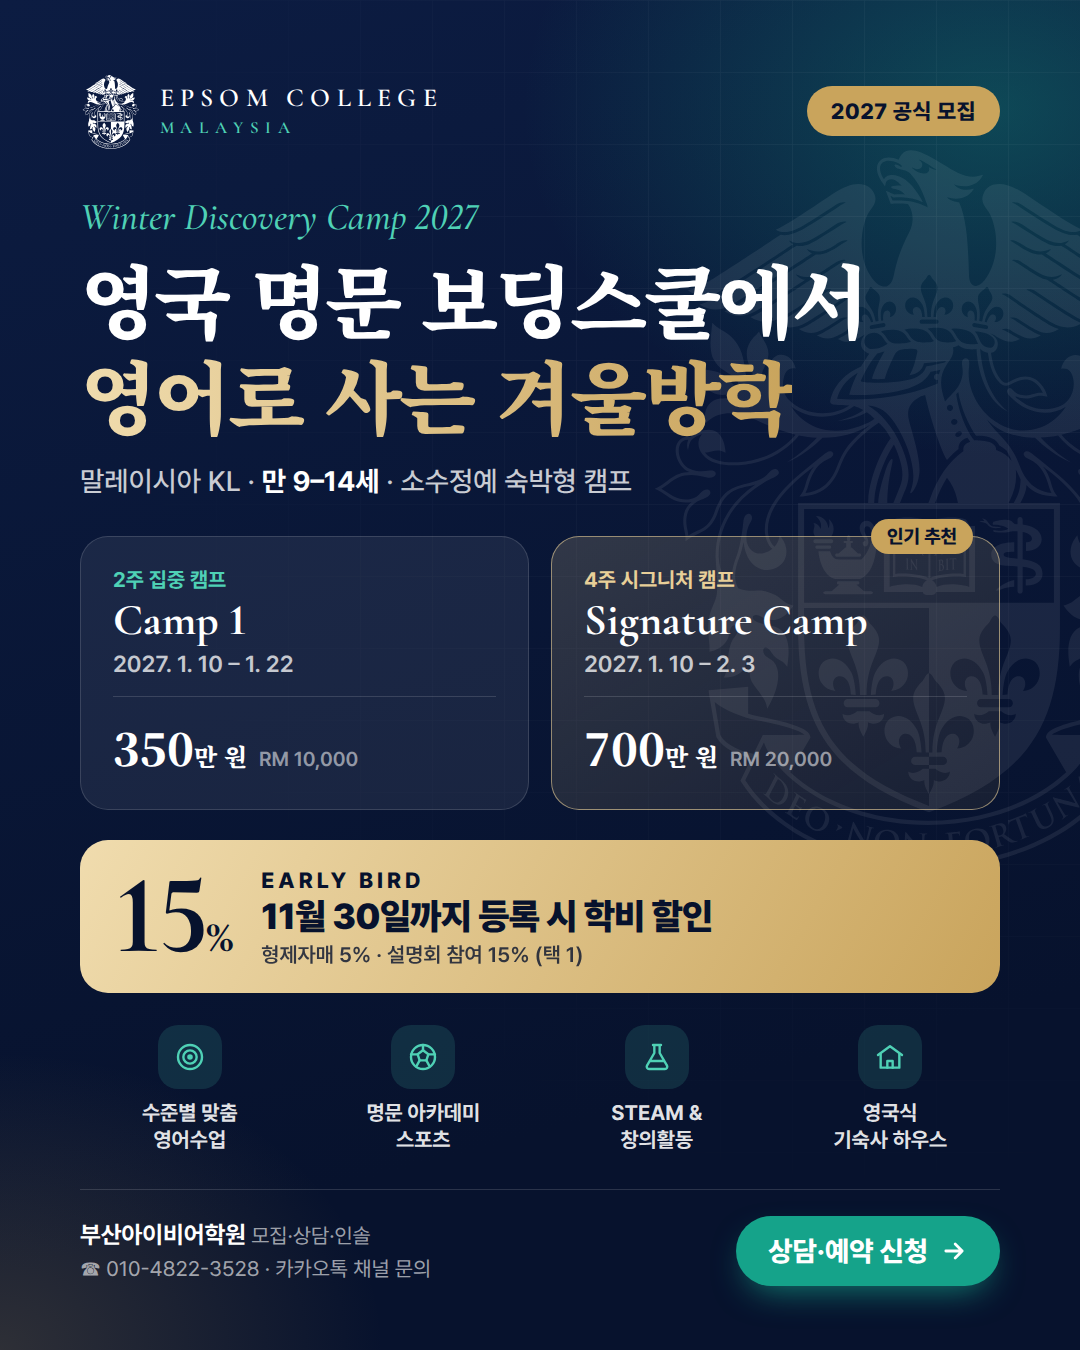
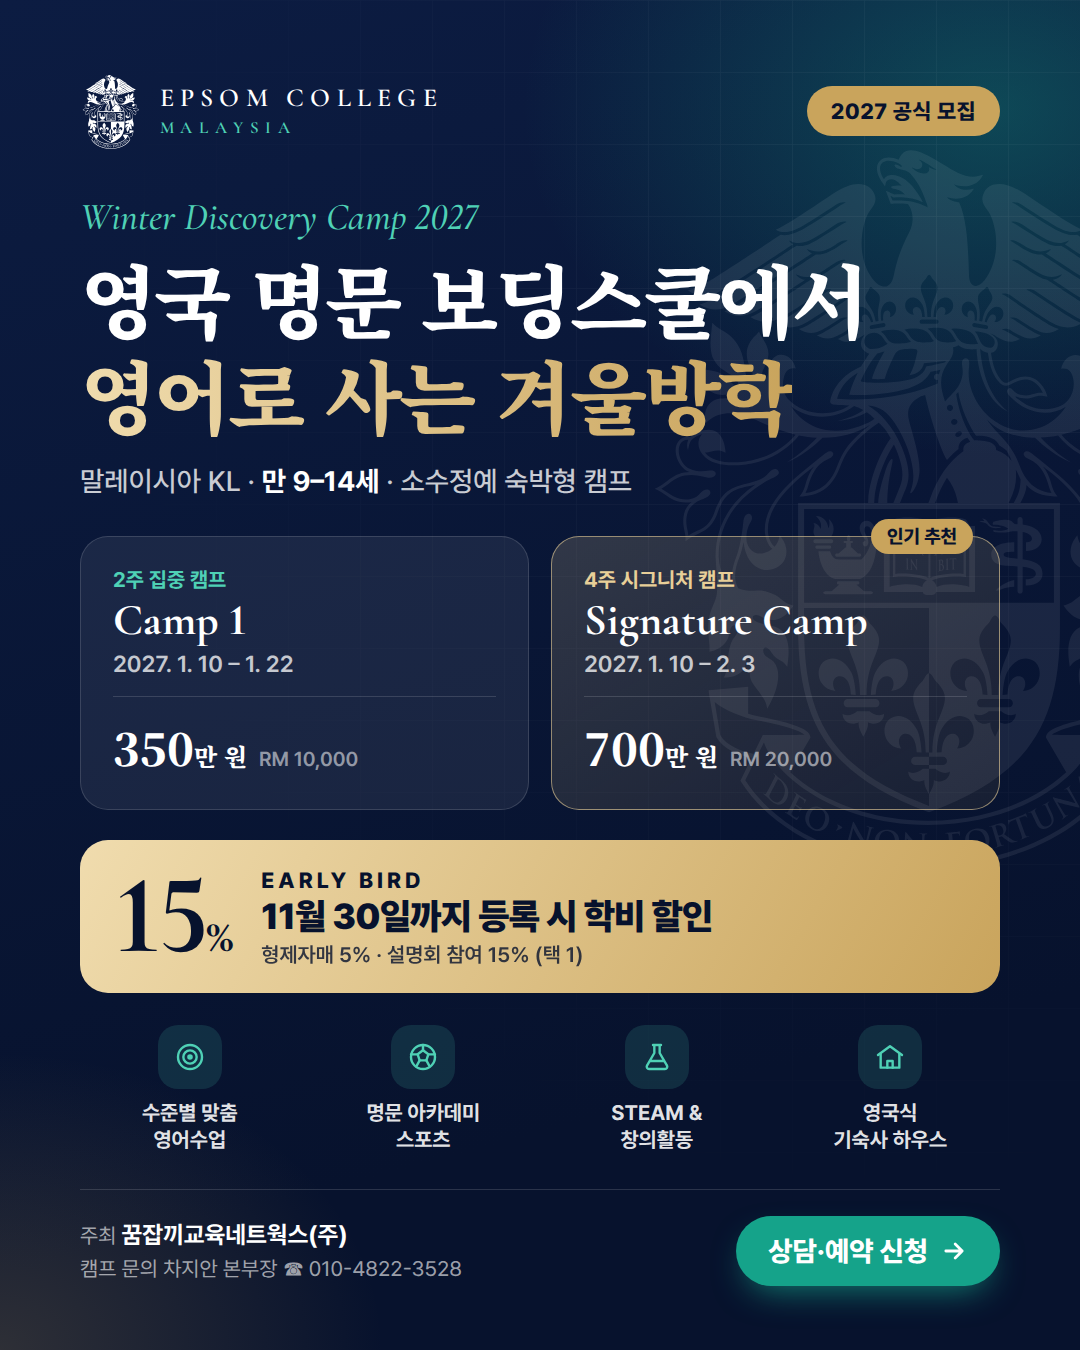
Change organizer to 꿈잡끼교육네트웍스(주) and update contacts
- Organizer/footer/copyright now 꿈잡끼교육네트웍스(주), linking knnedu.kr
- Camp contact: 차지안 본부장 010-4822-3528 (call/SMS)
- Remove previous academy's Kakao channel and office number
- Regenerate card news PNG with new organizer

Claude-Session: https://claude.ai/code/session_017LYc1gCbSr2zgmtpYjnyyX

Changed region(s): [[0.0611, 0.9022, 0.4278, 0.9644]]

diff --git a/index.html b/index.html
@@ -3,8 +3,8 @@
 <head>
 <meta charset="UTF-8">
 <meta name="viewport" content="width=device-width, initial-scale=1.0">
-<title>2027 엡솜 컬리지 말레이시아 겨울 디스커버리 캠프 | 부산아이비어학원</title>
-<meta name="description" content="영국 명문 보딩스쿨 Epsom College Malaysia 2027 겨울 디스커버리 캠프. 만 9–14세, 2주 캠프(1/10–1/22) · 4주 시그니처 캠프(1/10–2/3). 11월 30일까지 얼리버드 15% 할인. 부산아이비어학원 상담·예약.">
+<title>2027 엡솜 컬리지 말레이시아 겨울 디스커버리 캠프 | 꿈잡끼교육네트웍스(주)</title>
+<meta name="description" content="영국 명문 보딩스쿨 Epsom College Malaysia 2027 겨울 디스커버리 캠프. 만 9–14세, 2주 캠프(1/10–1/22) · 4주 시그니처 캠프(1/10–2/3). 11월 30일까지 얼리버드 15% 할인. 주최 꿈잡끼교육네트웍스(주) · 상담·예약.">
 <meta property="og:type" content="website">
 <meta property="og:title" content="2027 Epsom College Malaysia 겨울 디스커버리 캠프">
 <meta property="og:description" content="영국 정통 보딩스쿨에서 보내는 2주·4주 영어 몰입 캠프 · 얼리버드 15% (~11/30)">
@@ -302,7 +302,6 @@
   .thanks .sum{text-align:left;background:var(--bg);border:1px solid var(--line);border-radius:14px;padding:16px 18px;margin-top:20px;font-size:14px;white-space:pre-line;color:var(--ink)}
   .thanks .acts{display:grid;grid-template-columns:1fr 1fr;gap:10px;margin-top:16px}
   .thanks .acts .btn{height:50px;font-size:15px}
-  .btn-kakao{background:#fee500;color:#3a1d1d}
 
   footer{background:var(--navy-deep);color:rgba(255,255,255,.6);padding:64px 0;font-size:14px}
   footer .in{display:flex;justify-content:space-between;gap:40px;flex-wrap:wrap;align-items:flex-start}
@@ -375,6 +374,7 @@
     <symbol id="i-cal" viewBox="0 0 24 24" fill="none" stroke="currentColor" stroke-width="1.8" stroke-linecap="round" stroke-linejoin="round"><rect x="3" y="4.5" width="18" height="16.5" rx="2.5"/><path d="M3 9.5h18M8 3v3M16 3v3"/></symbol>
     <symbol id="i-phone" viewBox="0 0 24 24" fill="none" stroke="currentColor" stroke-width="1.9" stroke-linecap="round" stroke-linejoin="round"><path d="M22 16.9v3a2 2 0 0 1-2.2 2 19.8 19.8 0 0 1-8.6-3.1 19.5 19.5 0 0 1-6-6A19.8 19.8 0 0 1 2.1 4.2 2 2 0 0 1 4.1 2h3a2 2 0 0 1 2 1.7c.1 1 .4 1.9.7 2.8a2 2 0 0 1-.5 2.1L8 9.9a16 16 0 0 0 6 6l1.3-1.3a2 2 0 0 1 2.1-.4c.9.3 1.8.6 2.8.7a2 2 0 0 1 1.7 2z"/></symbol>
     <symbol id="i-chat" viewBox="0 0 24 24" fill="currentColor"><path d="M12 3C6.5 3 2 6.5 2 10.8c0 2.8 1.9 5.2 4.7 6.6l-1 3.6c-.1.3.3.6.6.4l4.2-2.8c.5.1 1 .1 1.5.1 5.5 0 10-3.5 10-7.9S17.5 3 12 3z"/></symbol>
+    <symbol id="i-globe" viewBox="0 0 24 24" fill="none" stroke="currentColor" stroke-width="1.8" stroke-linecap="round" stroke-linejoin="round"><circle cx="12" cy="12" r="9"/><path d="M3 12h18M12 3a14 14 0 0 1 0 18M12 3a14 14 0 0 0 0 18"/></symbol>
     <symbol id="i-arrow" viewBox="0 0 24 24" fill="none" stroke="currentColor" stroke-width="2" stroke-linecap="round" stroke-linejoin="round"><path d="M5 12h14M13 6l6 6-6 6"/></symbol>
     <symbol id="i-check" viewBox="0 0 24 24" fill="none" stroke="currentColor" stroke-width="2.6" stroke-linecap="round" stroke-linejoin="round"><path d="M5 12l5 5L20 7"/></symbol>
     <symbol id="i-wallet" viewBox="0 0 24 24" fill="none" stroke="currentColor" stroke-width="1.8" stroke-linecap="round" stroke-linejoin="round"><path d="M20 7V5a1 1 0 0 0-1-1H5a2 2 0 0 0 0 4h15a1 1 0 0 1 1 1v4h-4a2 2 0 0 0 0 4h4v2a1 1 0 0 1-1 1H5a2 2 0 0 1-2-2V6"/><path d="M21 13v4"/></symbol>
@@ -557,7 +557,7 @@
           <div class="row sub"><span>현지 용돈</span><b>20만 원</b></div>
           <div class="row total"><span>총 예상 비용</span><b>약 484만 원</b></div>
         </div>
-        <div class="pay"><svg><use href="#i-wallet"/></svg><div><b>학비 직접 납부 또는 당사 대행 모두 가능</b><br>학교에 직접 입금하셔도, 부산아이비어학원을 통해 납부하셔도 됩니다.</div></div>
+        <div class="pay"><svg><use href="#i-wallet"/></svg><div><b>학비 직접 납부 또는 당사 대행 모두 가능</b><br>학교에 직접 입금하셔도, 꿈잡끼교육네트웍스(주)를 통해 납부하셔도 됩니다.</div></div>
       </div>
 
       <div class="panel calc rv d1" id="calc">
@@ -626,10 +626,10 @@
       <div class="eyebrow">How to Join</div>
       <h2 class="title">상담부터 출국까지, 한 번에</h2>
       <div class="rule"></div>
-      <p class="lead">부산아이비어학원이 신청부터 출국 준비, 인솔까지 함께합니다.</p>
+      <p class="lead">주최사 꿈잡끼교육네트웍스(주)가 신청부터 출국 준비, 인솔까지 함께합니다.</p>
     </div>
     <div class="steps">
-      <div class="step rv"><div class="c">01</div><h4>상담 신청</h4><p>아래 신청서 또는<br>전화·카카오톡</p></div>
+      <div class="step rv"><div class="c">01</div><h4>상담 신청</h4><p>아래 신청서 또는<br>전화·문자</p></div>
       <div class="step rv d1"><div class="c">02</div><h4>1:1 상담·설명회</h4><p>캠프 선택과<br>할인 적용 안내</p></div>
       <div class="step rv d2"><div class="c">03</div><h4>등록·학비 납부</h4><p>학교 직납 또는<br>당사 대행</p></div>
       <div class="step rv d3"><div class="c">04</div><h4>출국 준비</h4><p>항공·보험·<br>준비물 안내</p></div>
@@ -656,7 +656,7 @@
       <details><summary><span>할인은 여러 개를 함께 받을 수 있나요?</span><i></i></summary>
         <div class="a">얼리버드(15%), 형제자매(5%), 설명회 특전(15%) 중 한 가지만 선택 적용되며 중복 적용은 불가합니다.</div></details>
       <details><summary><span>학비는 어떻게 납부하나요?</span><i></i></summary>
-        <div class="a">학교에 직접 입금하시거나, 부산아이비어학원을 통해 대행 납부하실 수 있습니다. 편하신 방법을 선택하시면 됩니다.</div></details>
+        <div class="a">학교에 직접 입금하시거나, 꿈잡끼교육네트웍스(주)를 통해 대행 납부하실 수 있습니다. 편하신 방법을 선택하시면 됩니다.</div></details>
       <details><summary><span>아이 혼자 출국해도 괜찮을까요?</span><i></i></summary>
         <div class="a">인솔자가 동행하여 출국부터 현지 도착까지 함께합니다. 출국 전 준비물과 현지 생활 안내도 별도로 드립니다.</div></details>
     </div>
@@ -671,11 +671,11 @@
       <h2 class="title">지금 상담·예약을<br>신청하세요</h2>
       <p class="lead">신청서를 남겨주시면 담당자가 순차적으로 연락드려 일정·비용·할인 적용을 자세히 안내해 드립니다.</p>
       <div class="contact">
-        <a href="tel:01048223528"><span class="ci"><svg><use href="#i-phone"/></svg></span><div><small>전화 상담</small><b>010-4822-3528</b></div></a>
-        <a href="http://pf.kakao.com/_jeZxlG" target="_blank" rel="noopener"><span class="ci k"><svg><use href="#i-chat"/></svg></span><div><small>카카오톡 채널</small><b>부산아이비어학원 문의</b></div></a>
-        <a href="tel:0519360583"><span class="ci"><svg><use href="#i-phone"/></svg></span><div><small>운영 사무실</small><b>051-936-0583</b></div></a>
+        <a href="tel:01048223528"><span class="ci"><svg><use href="#i-phone"/></svg></span><div><small>캠프 문의 담당 · 차지안 본부장</small><b>010-4822-3528</b></div></a>
+        <a href="sms:01048223528"><span class="ci"><svg><use href="#i-chat"/></svg></span><div><small>문자 상담</small><b>010-4822-3528</b></div></a>
+        <a href="https://knnedu.kr:4447/" target="_blank" rel="noopener"><span class="ci"><svg><use href="#i-globe"/></svg></span><div><small>주최사 홈페이지</small><b>꿈잡끼교육네트웍스(주)</b></div></a>
       </div>
-      <p class="agent">모집 · 상담 · 인솔 : 부산아이비어학원 (Busan Ivy Academy)<br>학비는 학교 직납 또는 당사 대행 모두 가능합니다.</p>
+      <p class="agent">주최 : 꿈잡끼교육네트웍스(주)<br>캠프 문의 담당 : 차지안 본부장 (010-4822-3528)<br>학비는 학교 직납 또는 당사 대행 모두 가능합니다.</p>
     </div>
 
     <div class="form rv d1">
@@ -717,7 +717,7 @@
         <div class="sum" id="sum" hidden></div>
         <div class="acts" id="acts" hidden>
           <a class="btn btn-navy" id="smsBtn" href="#"><svg><use href="#i-phone"/></svg>문자로 전송</a>
-          <a class="btn btn-kakao" id="kakaoBtn" href="http://pf.kakao.com/_jeZxlG" target="_blank" rel="noopener"><svg><use href="#i-chat"/></svg>카카오톡으로 전송</a>
+          <a class="btn btn-teal" id="callBtn" href="tel:01048223528"><svg><use href="#i-phone"/></svg>전화 상담</a>
         </div>
       </div>
     </div>
@@ -730,11 +730,11 @@
       <div class="fl"><img src="assets/epsom-logo-white.svg" alt="Epsom College Malaysia"></div>
       <div class="fr">
         <b>2027 Epsom College Malaysia Winter Discovery Camp</b><br>
-        모집 · 상담 · 인솔 : 부산아이비어학원 (Busan Ivy Academy)<br>
-        문의 ☎ 010-4822-3528 · 운영 사무실 ☎ 051-936-0583
+        주최 : 꿈잡끼교육네트웍스(주) · <a href="https://knnedu.kr:4447/" target="_blank" rel="noopener" style="text-decoration:underline">knnedu.kr</a><br>
+        캠프 문의 담당 : 차지안 본부장 ☎ 010-4822-3528
       </div>
     </div>
-    <p class="disc">본 페이지의 원화 금액은 1링깃 ≈ 350원 기준 예상치이며, 환율 및 항공권 가격에 따라 변동될 수 있습니다. 캠프 세부 프로그램과 일정은 학교 사정에 따라 일부 변경될 수 있습니다. Epsom College Malaysia 명칭과 로고는 해당 학교에 귀속됩니다.<br>© 2026 Busan Ivy Academy. All rights reserved.</p>
+    <p class="disc">본 페이지의 원화 금액은 1링깃 ≈ 350원 기준 예상치이며, 환율 및 항공권 가격에 따라 변동될 수 있습니다. 캠프 세부 프로그램과 일정은 학교 사정에 따라 일부 변경될 수 있습니다. Epsom College Malaysia 명칭과 로고는 해당 학교에 귀속됩니다.<br>© 2026 꿈잡끼교육네트웍스(주) All rights reserved.</p>
   </div>
 </footer>
 
@@ -751,7 +751,7 @@
      보냅니다. 메일의 버튼을 눌러야 이후 신청서가 정상 수신됩니다.
    - 활성화 후 받은 난수 주소(예: 'a1b2c3...')로 NOTIFY_EMAIL 을 바꾸면
      페이지 소스에 이메일이 노출되지 않습니다.
-   - 전송에 실패하면 문자/카카오톡으로 보내는 화면이 자동으로 표시됩니다.
+   - 전송에 실패하면 문자/전화로 접수하는 화면이 자동으로 표시됩니다.
    ============================================================ */
 var NOTIFY_EMAIL = 'busanivyacademy2025@gmail.com';
 var FORM_ENDPOINT = 'https://formsubmit.co/ajax/' + NOTIFY_EMAIL;
@@ -834,14 +834,11 @@ var EARLY_BIRD_END = new Date('2026-11-30T23:59:59+09:00');
     }
     function fallback(){
       document.getElementById('thanks').querySelector('h3').textContent='신청 내용이 작성되었습니다';
-      document.getElementById('thanksMsg').textContent='일시적으로 온라인 접수가 원활하지 않습니다. 아래 버튼으로 신청 내용을 보내주시면 접수가 완료됩니다. (카카오톡은 내용이 자동 복사됩니다)';
+      document.getElementById('thanksMsg').textContent='일시적으로 온라인 접수가 원활하지 않습니다. 아래 ‘문자로 전송’ 버튼으로 신청 내용을 보내주시거나 전화 주시면 접수가 완료됩니다.';
       var sum=document.getElementById('sum'); sum.textContent=summary; sum.hidden=false;
       document.getElementById('acts').hidden=false;
       var sep=/iPhone|iPad|iPod/i.test(navigator.userAgent)?'&':'?';
       document.getElementById('smsBtn').href='sms:'+CONTACT_SMS+sep+'body='+encodeURIComponent(summary);
-      document.getElementById('kakaoBtn').addEventListener('click',function(){
-        if(navigator.clipboard){navigator.clipboard.writeText(summary).catch(function(){})}
-      });
       done();
     }
     if(!FORM_ENDPOINT||!window.fetch){fallback();return}

diff --git a/card-news.html b/card-news.html
@@ -119,7 +119,7 @@
   </div>
 
   <div class="foot z">
-    <div class="l"><b>부산아이비어학원</b> 모집·상담·인솔<br>☎ 010-4822-3528 · 카카오톡 채널 문의</div>
+    <div class="l">주최 <b>꿈잡끼교육네트웍스(주)</b><br>캠프 문의 차지안 본부장 ☎ 010-4822-3528</div>
     <div class="cta">상담·예약 신청<svg viewBox="0 0 24 24" fill="none" stroke="currentColor" stroke-width="2.4" stroke-linecap="round" stroke-linejoin="round"><path d="M5 12h14M13 6l6 6-6 6"/></svg></div>
   </div>
 </div>

diff --git a/README.md b/README.md
@@ -1,6 +1,6 @@
 # 2027 Epsom College Malaysia 겨울 디스커버리 캠프
 
-부산아이비어학원 모집 · 상담 · 예약 랜딩 페이지
+주최 꿈잡끼교육네트웍스(주) · 모집 · 상담 · 예약 랜딩 페이지
 
 - `index.html` — 예약 랜딩 페이지 (신청서는 busanivyacademy2025@gmail.com 으로 전송, FormSubmit 사용)
 - `card-news.html` / `card-news.png` — SNS 카드뉴스 (1080×1350)
